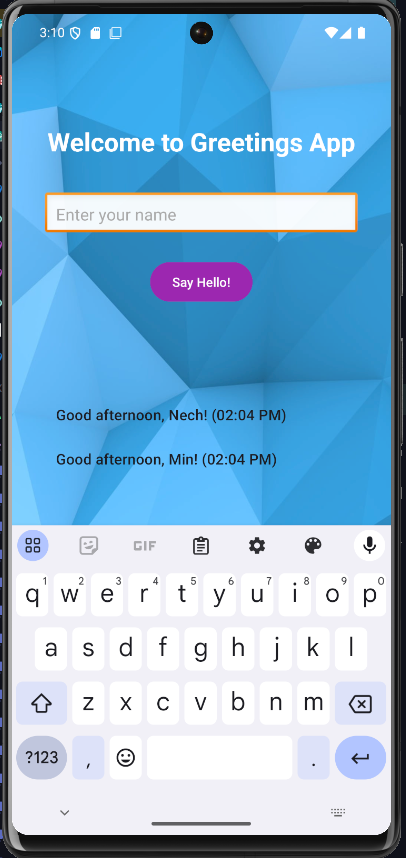
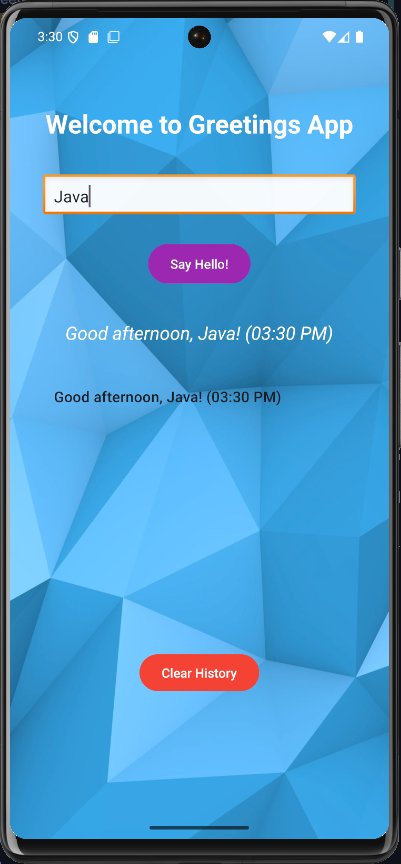
Add clear history btn + update readme

diff --git a/app/src/main/java/com/hourcode/greetingapp/MainActivity.java b/app/src/main/java/com/hourcode/greetingapp/MainActivity.java
@@ -33,6 +33,7 @@ public class MainActivity extends AppCompatActivity {
     TextView greetingText;
     RecyclerView greetingRecycler;
     GreetingAdapter adapter;
+    Button clearHistoryBtn;
 
     List<String> greetingList;
     SharedPreferences prefs;
@@ -49,6 +50,7 @@ public class MainActivity extends AppCompatActivity {
         title = findViewById(R.id.title);
         greetingText = findViewById(R.id.greetingText);
         greetingRecycler = findViewById(R.id.greetingHistoryRecyclerView);
+        clearHistoryBtn = findViewById(R.id.clearHistoryBtn);
 
         // Set up SharedPreferences
         prefs = getSharedPreferences("GreetingAppPrefs", Context.MODE_PRIVATE);
@@ -95,6 +97,16 @@ public class MainActivity extends AppCompatActivity {
                 greetingList.add(0, message); // Add to top
                 adapter.notifyItemInserted(0);
                 saveGreetings(greetingList);
+            }
+        });
+
+        clearHistoryBtn.setOnClickListener(new View.OnClickListener() {
+            @Override
+            public void onClick(View v) {
+                greetingList.clear();
+                adapter.notifyDataSetChanged();
+                prefs.edit().remove(PREF_KEY).apply();
+                Toast.makeText(MainActivity.this, "Greeting history cleared", Toast.LENGTH_SHORT).show();
             }
         });
     }

diff --git a/README.md b/README.md
@@ -39,7 +39,6 @@ GreetingApp is a simple and fun Android app built using **Java** that greets use
 
 ### 📸 Screenshots
 ![Main Screen](images/main_screen.png)
-![Greeting History](images/history.png)
 
 ---
 
